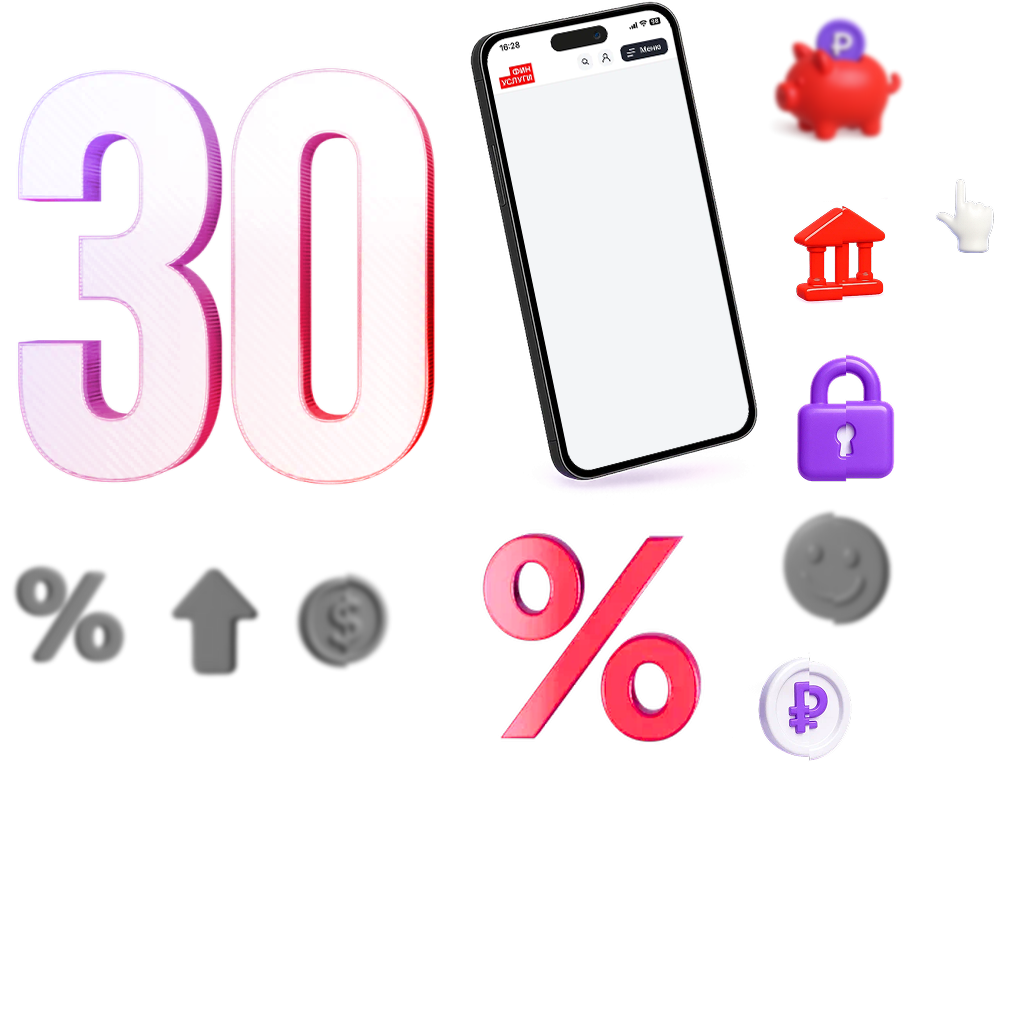
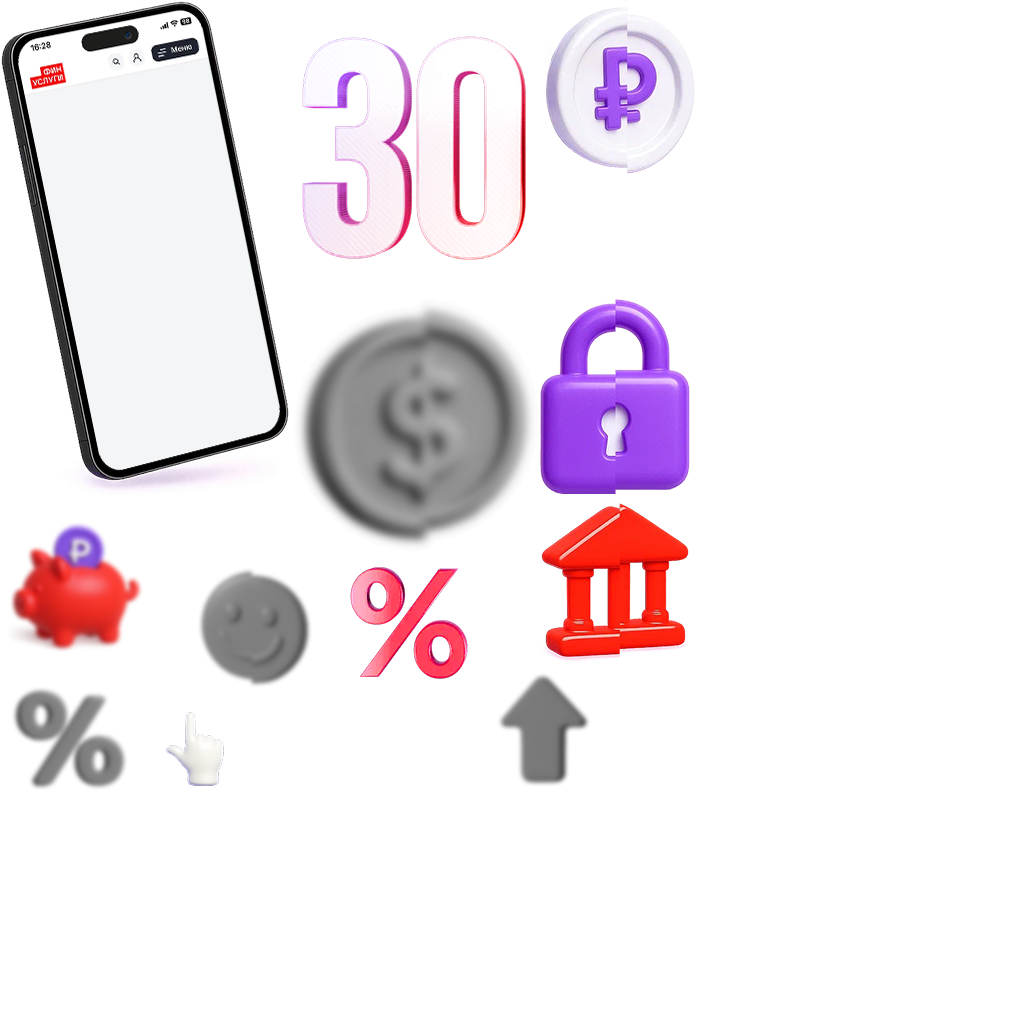
Add files via upload

diff --git a/index.js b/index.js
@@ -3,7 +3,7 @@
 var p; // shortcut to reference prototypes
 var lib={};var ss={};var img={};
 lib.ssMetadata = [
-		{name:"index_atlas_1", frames: [[762,0,178,171],[279,556,125,131],[156,556,121,137],[762,494,161,151],[0,556,154,129],[0,0,467,554],[469,507,261,254],[762,334,162,158],[762,173,162,159],[732,647,129,121],[469,0,291,505],[926,173,86,86]]}
+		{name:"index_atlas_1", frames: [[0,507,178,171],[293,299,245,252],[485,664,121,137],[180,553,161,151],[0,680,154,129],[293,0,250,297],[343,553,140,136],[545,0,150,174],[540,299,150,195],[540,496,150,166],[0,0,291,505],[156,706,86,86]]}
 ];
 
 
@@ -34,7 +34,7 @@ lib.ssMetadata = [
 
 
 
-(lib.Растровоеизображение4 = function() {
+(lib.Растровоеизображение41 = function() {
 	this.initialize(ss["index_atlas_1"]);
 	this.gotoAndStop(1);
 }).prototype = p = new cjs.Sprite();
@@ -76,21 +76,21 @@ lib.ssMetadata = [
 
 
 
-(lib.bank_elements3_glitch1 = function() {
+(lib.ic1 = function() {
 	this.initialize(ss["index_atlas_1"]);
 	this.gotoAndStop(7);
 }).prototype = p = new cjs.Sprite();
 
 
 
-(lib.bank_elements3_glitch2 = function() {
+(lib.ic2 = function() {
 	this.initialize(ss["index_atlas_1"]);
 	this.gotoAndStop(8);
 }).prototype = p = new cjs.Sprite();
 
 
 
-(lib.bank_elements3_glitch3 = function() {
+(lib.ic3 = function() {
 	this.initialize(ss["index_atlas_1"]);
 	this.gotoAndStop(9);
 }).prototype = p = new cjs.Sprite();
@@ -1341,7 +1341,7 @@ if (reversed == null) { reversed = false; }
 
 	this._renderFirstFrame();
 
-}).prototype = getMCSymbolPrototype(lib.percent, new cjs.Rectangle(0,0,261,254), null);
+}).prototype = getMCSymbolPrototype(lib.percent, new cjs.Rectangle(0,0,140,136), null);
 
 
 (lib._30_1 = function(mode,startPosition,loop,reversed) {
@@ -1357,12 +1357,13 @@ if (reversed == null) { reversed = false; }
 
 	// Слой_1
 	this.instance = new lib._30();
+	this.instance.setTransform(0,0,0.8,0.8);
 
 	this.timeline.addTween(cjs.Tween.get(this.instance).wait(1));
 
 	this._renderFirstFrame();
 
-}).prototype = getMCSymbolPrototype(lib._30_1, new cjs.Rectangle(0,0,467,554), null);
+}).prototype = getMCSymbolPrototype(lib._30_1, new cjs.Rectangle(0,0,200,237.6), null);
 
 
 (lib.screen2_my = function(mode,startPosition,loop,reversed) {
@@ -3873,14 +3874,15 @@ if (reversed == null) { reversed = false; }
 	props.reversed = reversed;
 	cjs.MovieClip.apply(this,[props]);
 
-	// Слой_1
-	this.instance = new lib.bank_elements3_glitch1();
+	// Слой_2
+	this.instance = new lib.ic2();
+	this.instance.setTransform(35,21,0.6666,0.6509);
 
 	this.timeline.addTween(cjs.Tween.get(this.instance).wait(1));
 
 	this._renderFirstFrame();
 
-}).prototype = getMCSymbolPrototype(lib.ic7, new cjs.Rectangle(0,0,162,158), null);
+}).prototype = getMCSymbolPrototype(lib.ic7, new cjs.Rectangle(35,21,100,127), null);
 
 
 (lib.ic6 = function(mode,startPosition,loop,reversed) {
@@ -3894,15 +3896,15 @@ if (reversed == null) { reversed = false; }
 	props.reversed = reversed;
 	cjs.MovieClip.apply(this,[props]);
 
-	// Слой_1
-	this.instance = new lib.bank_elements3_glitch2();
-	this.instance.setTransform(162,0,1,1,0,0,180);
+	// Слой_2
+	this.instance = new lib.ic3();
+	this.instance.setTransform(160,23,0.6465,0.647,0,0,180);
 
 	this.timeline.addTween(cjs.Tween.get(this.instance).wait(1));
 
 	this._renderFirstFrame();
 
-}).prototype = getMCSymbolPrototype(lib.ic6, new cjs.Rectangle(0,0,162,159), null);
+}).prototype = getMCSymbolPrototype(lib.ic6, new cjs.Rectangle(63,23,97,107.4), null);
 
 
 (lib.ic5 = function(mode,startPosition,loop,reversed) {
@@ -3917,13 +3919,14 @@ if (reversed == null) { reversed = false; }
 	cjs.MovieClip.apply(this,[props]);
 
 	// Слой_1
-	this.instance = new lib.bank_elements3_glitch3();
+	this.instance = new lib.ic1();
+	this.instance.setTransform(28,4,0.6332,0.633);
 
 	this.timeline.addTween(cjs.Tween.get(this.instance).wait(1));
 
 	this._renderFirstFrame();
 
-}).prototype = getMCSymbolPrototype(lib.ic5, new cjs.Rectangle(0,0,129,121), null);
+}).prototype = getMCSymbolPrototype(lib.ic5, new cjs.Rectangle(28,4,95,110.2), null);
 
 
 (lib.ic4 = function(mode,startPosition,loop,reversed) {
@@ -3948,7 +3951,7 @@ if (reversed == null) { reversed = false; }
 }).prototype = getMCSymbolPrototype(lib.ic4, new cjs.Rectangle(-6,-6,121,137), null);
 
 
-(lib.ic3 = function(mode,startPosition,loop,reversed) {
+(lib.ic3_1 = function(mode,startPosition,loop,reversed) {
 if (loop == null) { loop = true; }
 if (reversed == null) { reversed = false; }
 	var props = new Object();
@@ -3967,10 +3970,10 @@ if (reversed == null) { reversed = false; }
 
 	this._renderFirstFrame();
 
-}).prototype = getMCSymbolPrototype(lib.ic3, new cjs.Rectangle(-6,-6,161,151), null);
+}).prototype = getMCSymbolPrototype(lib.ic3_1, new cjs.Rectangle(-6,-6,161,151), null);
 
 
-(lib.ic2 = function(mode,startPosition,loop,reversed) {
+(lib.ic2_1 = function(mode,startPosition,loop,reversed) {
 if (loop == null) { loop = true; }
 if (reversed == null) { reversed = false; }
 	var props = new Object();
@@ -3989,10 +3992,10 @@ if (reversed == null) { reversed = false; }
 
 	this._renderFirstFrame();
 
-}).prototype = getMCSymbolPrototype(lib.ic2, new cjs.Rectangle(-6,-6,154,129), null);
+}).prototype = getMCSymbolPrototype(lib.ic2_1, new cjs.Rectangle(-6,-6,154,129), null);
 
 
-(lib.ic1 = function(mode,startPosition,loop,reversed) {
+(lib.ic1_1 = function(mode,startPosition,loop,reversed) {
 if (loop == null) { loop = true; }
 if (reversed == null) { reversed = false; }
 	var props = new Object();
@@ -4004,14 +4007,14 @@ if (reversed == null) { reversed = false; }
 	cjs.MovieClip.apply(this,[props]);
 
 	// Слой_1___копия
-	this.instance = new lib.Растровоеизображение4();
-	this.instance.setTransform(-7,-7);
+	this.instance = new lib.Растровоеизображение41();
+	this.instance.setTransform(-4,-5,0.55,0.5499);
 
 	this.timeline.addTween(cjs.Tween.get(this.instance).wait(1));
 
 	this._renderFirstFrame();
 
-}).prototype = getMCSymbolPrototype(lib.ic1, new cjs.Rectangle(-7,-7,125,131), null);
+}).prototype = getMCSymbolPrototype(lib.ic1_1, new cjs.Rectangle(-4,-5,134.8,138.6), null);
 
 
 (lib.bg_v = function(mode,startPosition,loop,reversed) {
@@ -4294,17 +4297,17 @@ if (reversed == null) { reversed = false; }
 	// Слой_1
 	this.pers = new lib.percent();
 	this.pers.name = "pers";
-	this.pers.setTransform(211.05,168.25,0.364,0.364,0,0,0,130.5,127);
+	this.pers.setTransform(163.55,122.05,0.6787,0.6783);
 
 	this.tx30 = new lib._30_1();
 	this.tx30.name = "tx30";
-	this.tx30.setTransform(99.95,118.65,0.4283,0.4282,0,0,0,233.4,277.1);
+	this.tx30.setTransform(0,0,1,0.9996);
 
 	this.timeline.addTween(cjs.Tween.get({}).to({state:[{t:this.tx30},{t:this.pers}]}).wait(1));
 
 	this._renderFirstFrame();
 
-}).prototype = getMCSymbolPrototype(lib._30_pers, new cjs.Rectangle(0,0,258.6,237.2), null);
+}).prototype = getMCSymbolPrototype(lib._30_pers, new cjs.Rectangle(0,0,258.6,237.5), null);
 
 
 (lib.screen2 = function(mode,startPosition,loop,reversed) {
@@ -4429,24 +4432,24 @@ if (reversed == null) { reversed = false; }
 	this.s3.setTransform(58.3,106.35,0.6194,0.6194,42.9056,0,0,52.6,60.6);
 	this.s3.alpha = 0.8086;
 
-	this.s2 = new lib.ic3();
+	this.s2 = new lib.ic3_1();
 	this.s2.name = "s2";
 	this.s2.setTransform(224.95,84.5,1,1,0,0,0,72.5,67.5);
 
-	this.b2 = new lib.ic2();
+	this.b2 = new lib.ic2_1();
 	this.b2.name = "b2";
 	this.b2.setTransform(253.4,231.85,1,1,14.9983,0,0,69,56.5);
 
-	this.s4 = new lib.ic1();
+	this.s4 = new lib.ic1_1();
 	this.s4.name = "s4";
-	this.s4.setTransform(99.8,214.1,1.4902,1.4902,-15.7382,0,0,53.6,56.6);
-	this.s4.alpha = 0.8086;
+	this.s4.setTransform(89.6,204.4,0.9991,0.9987,-15.5741,0,0,53.5,56.7);
+	this.s4.alpha = 0.6914;
 
 	this.timeline.addTween(cjs.Tween.get({}).to({state:[{t:this.s4},{t:this.b2},{t:this.s2},{t:this.s3},{t:this.s1},{t:this.b1}]}).wait(1));
 
 	this._renderFirstFrame();
 
-}).prototype = getMCSymbolPrototype(lib.ic_pak1, new cjs.Rectangle(-12.9,-4.3,358.79999999999995,339.6), null);
+}).prototype = getMCSymbolPrototype(lib.ic_pak1, new cjs.Rectangle(2.1,-4.3,343.79999999999995,320.90000000000003), null);
 
 
 (lib.ic_pac2 = function(mode,startPosition,loop,reversed) {
@@ -4463,7 +4466,7 @@ if (reversed == null) { reversed = false; }
 	// ic6
 	this.b1 = new lib.ic6();
 	this.b1.name = "b1";
-	this.b1.setTransform(103.5,75.15,1.0233,1.0233,14.7609,0,0,81,79.5);
+	this.b1.setTransform(103.5,75.15,0.9992,0.9992,14.764,0,0,81,79.5);
 
 	this.timeline.addTween(cjs.Tween.get(this.b1).wait(1));
 
@@ -4490,7 +4493,7 @@ if (reversed == null) { reversed = false; }
 
 	this._renderFirstFrame();
 
-}).prototype = getMCSymbolPrototype(lib.ic_pac2, new cjs.Rectangle(-151.5,-83.2,359.6,357.5), null);
+}).prototype = getMCSymbolPrototype(lib.ic_pac2, new cjs.Rectangle(-113.5,-60,321.6,334.3), null);
 
 
 // stage content:
@@ -4764,7 +4767,7 @@ if (reversed == null) { reversed = false; }
 	this._renderFirstFrame();
 
 }).prototype = p = new lib.AnMovieClip();
-p.nominalBounds = new cjs.Rectangle(99.5,284.3,221.5,315.7);
+p.nominalBounds = new cjs.Rectangle(127.2,289.3,193.8,310.7);
 // library properties:
 lib.properties = {
 	id: '1641CA354B9D7842B75F4414801BF91E',
